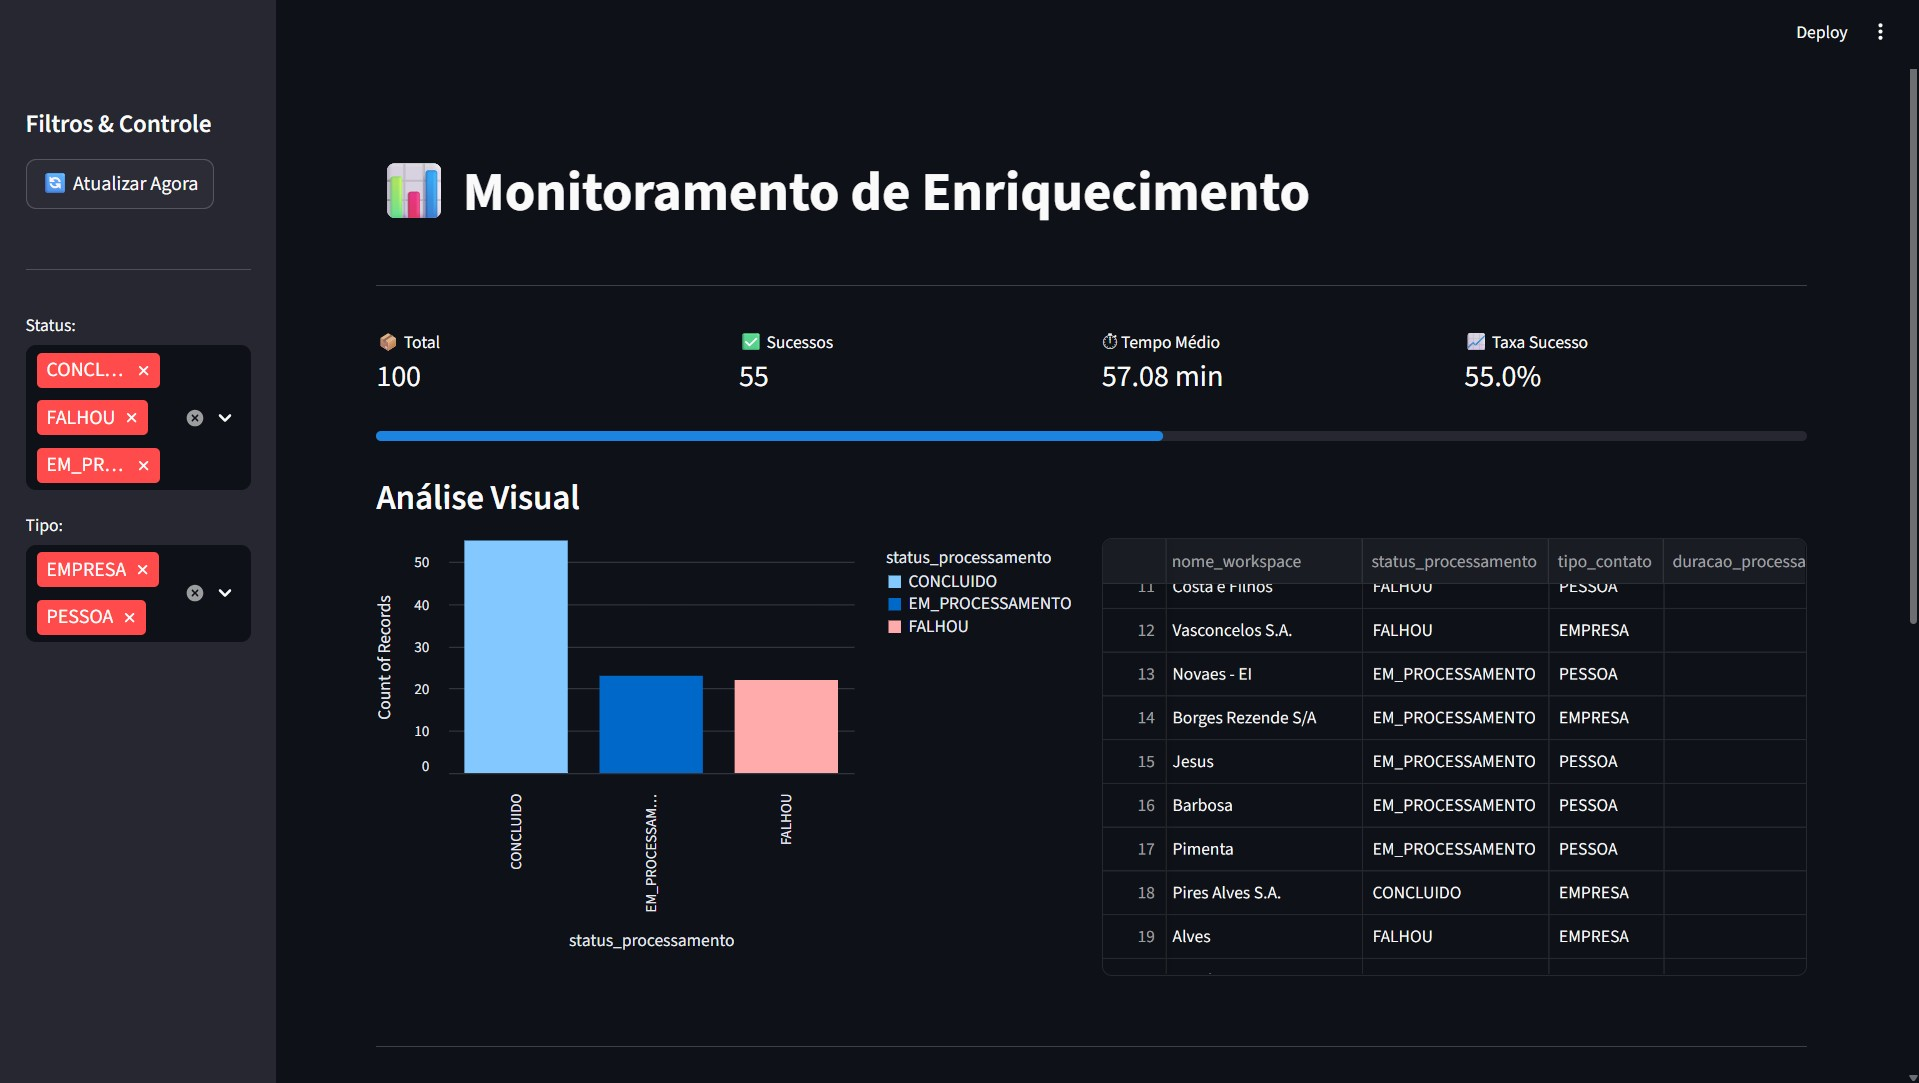
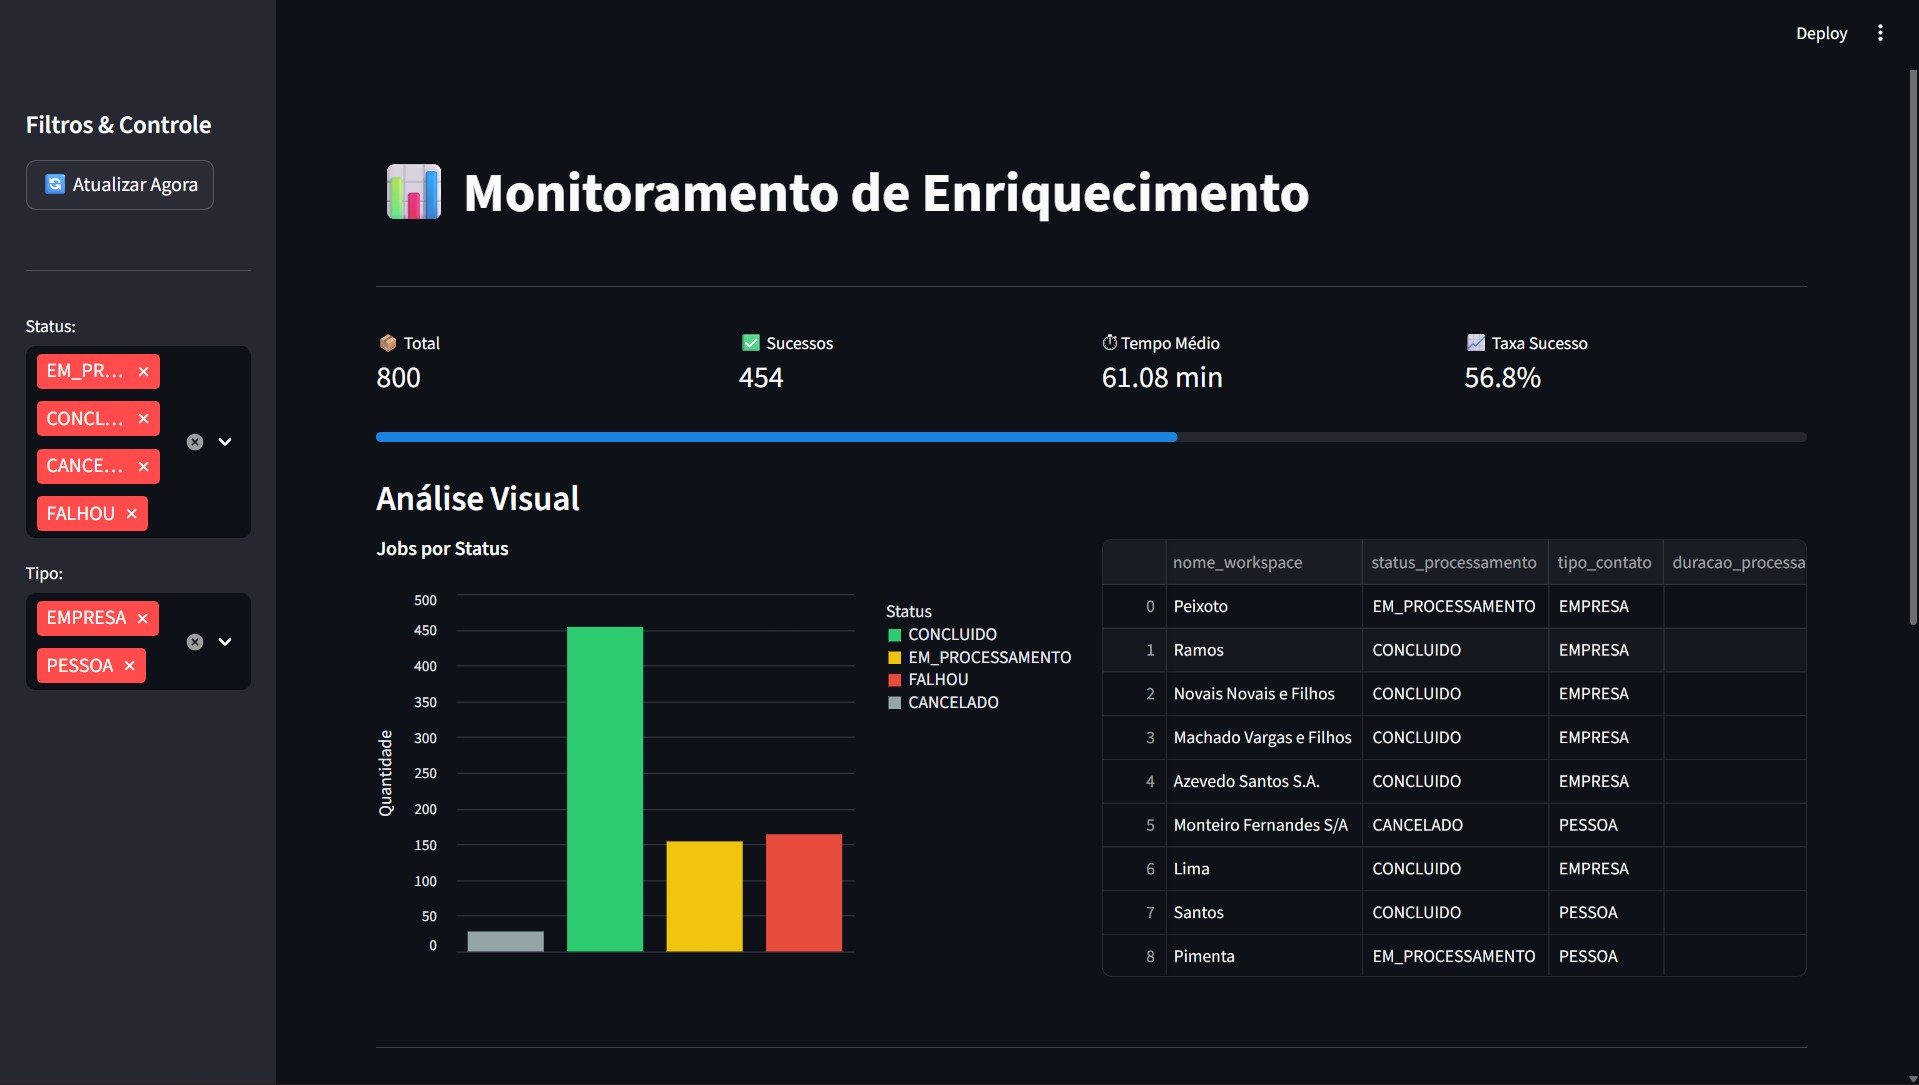
fix: add CANCELED status to api and update dashboard colors

diff --git a/dashboard/app.py b/dashboard/app.py
@@ -3,6 +3,18 @@ import pandas as pd
 import requests
 import altair as alt
 
+CORES_STATUS = {
+    "CONCLUIDO": "#2ecc71",
+    "EM_PROCESSAMENTO": "#f1c40f",
+    "FALHOU": "#e74c3c",   
+    "CANCELADO": "#95a5a6"
+}
+
+CORES_TIPO = {
+    "EMPRESA": "#9b59b6",
+    "PESSOA": "#3498db"
+}
+
 # Configuração da Página
 st.set_page_config(page_title = "Monitoramento Driva", page_icon = "📊", layout = "wide")
 
@@ -70,13 +82,32 @@ if not df_filtered.empty:
 
     with col_graf1:
         st.altair_chart(alt.Chart(df_filtered).mark_bar().encode(
-            x = 'status_processamento', y = 'count()', color = 'status_processamento', tooltip = ['count()']
-        ).interactive(), use_container_width = True)
+            x=alt.X('status_processamento', axis=None), 
+            y=alt.Y('count()', title='Quantidade'),
+            color=alt.Color(
+                'status_processamento',
+                scale=alt.Scale(
+                    domain=list(CORES_STATUS.keys()), 
+                    range=list(CORES_STATUS.values())
+                ),
+                legend=alt.Legend(title="Status")
+            ),
+            tooltip=['status_processamento', 'count()']
+        ).interactive().properties(title="Jobs por Status"), use_container_width=True)
 
     with col_graf2:
-        st.altair_chart(alt.Chart(df_filtered).mark_arc(innerRadius = 50).encode(
-            theta = alt.Theta("count()", stack = True), color = "tipo_contato", tooltip = ['tipo_contato', 'count()']
-        ), use_container_width = True)
+        st.altair_chart(alt.Chart(df_filtered).mark_arc(innerRadius=50).encode(
+            theta=alt.Theta("count()", stack=True),
+            color=alt.Color(
+                "tipo_contato",
+                scale=alt.Scale(
+                    domain=list(CORES_TIPO.keys()), 
+                    range=list(CORES_TIPO.values())
+                ),
+                legend=alt.Legend(title="Tipo")
+            ),
+            tooltip=['tipo_contato', 'count()']
+        ).properties(title="Empresas vs Pessoas"), use_container_width=True)
 
     st.markdown("---")
     st.subheader("Detalhes")

diff --git a/api/main.py b/api/main.py
@@ -52,7 +52,7 @@ def get_enrichments(page: int = 1, limit: int = 50):
             "workspace_name": fake.company(),
             "total_contacts": random.randint(5, 2000),
             "contact_type": random.choice(["COMPANY", "PERSON"]),
-            "status": random.choice(["COMPLETED", "COMPLETED", "COMPLETED", "FAILED", "PROCESSING"]),
+            "status": random.choice(["COMPLETED", "COMPLETED", "COMPLETED", "FAILED", "PROCESSING", "CANCELED"]),
             "created_at": created.isoformat(),
             "updated_at": updated.isoformat()
         }
